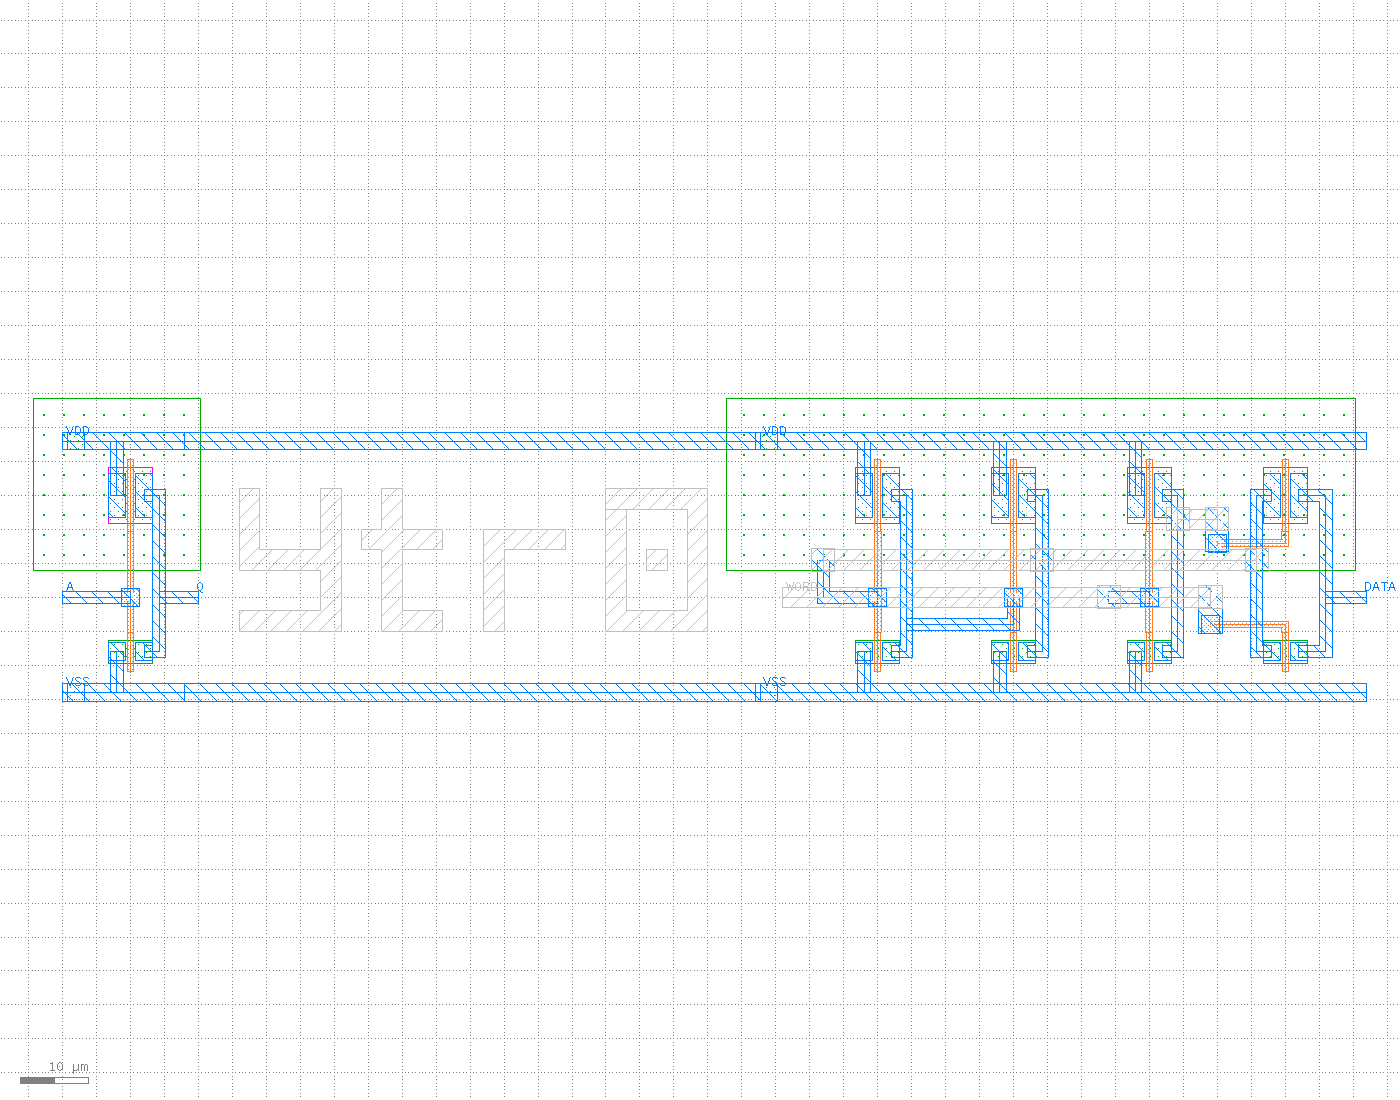
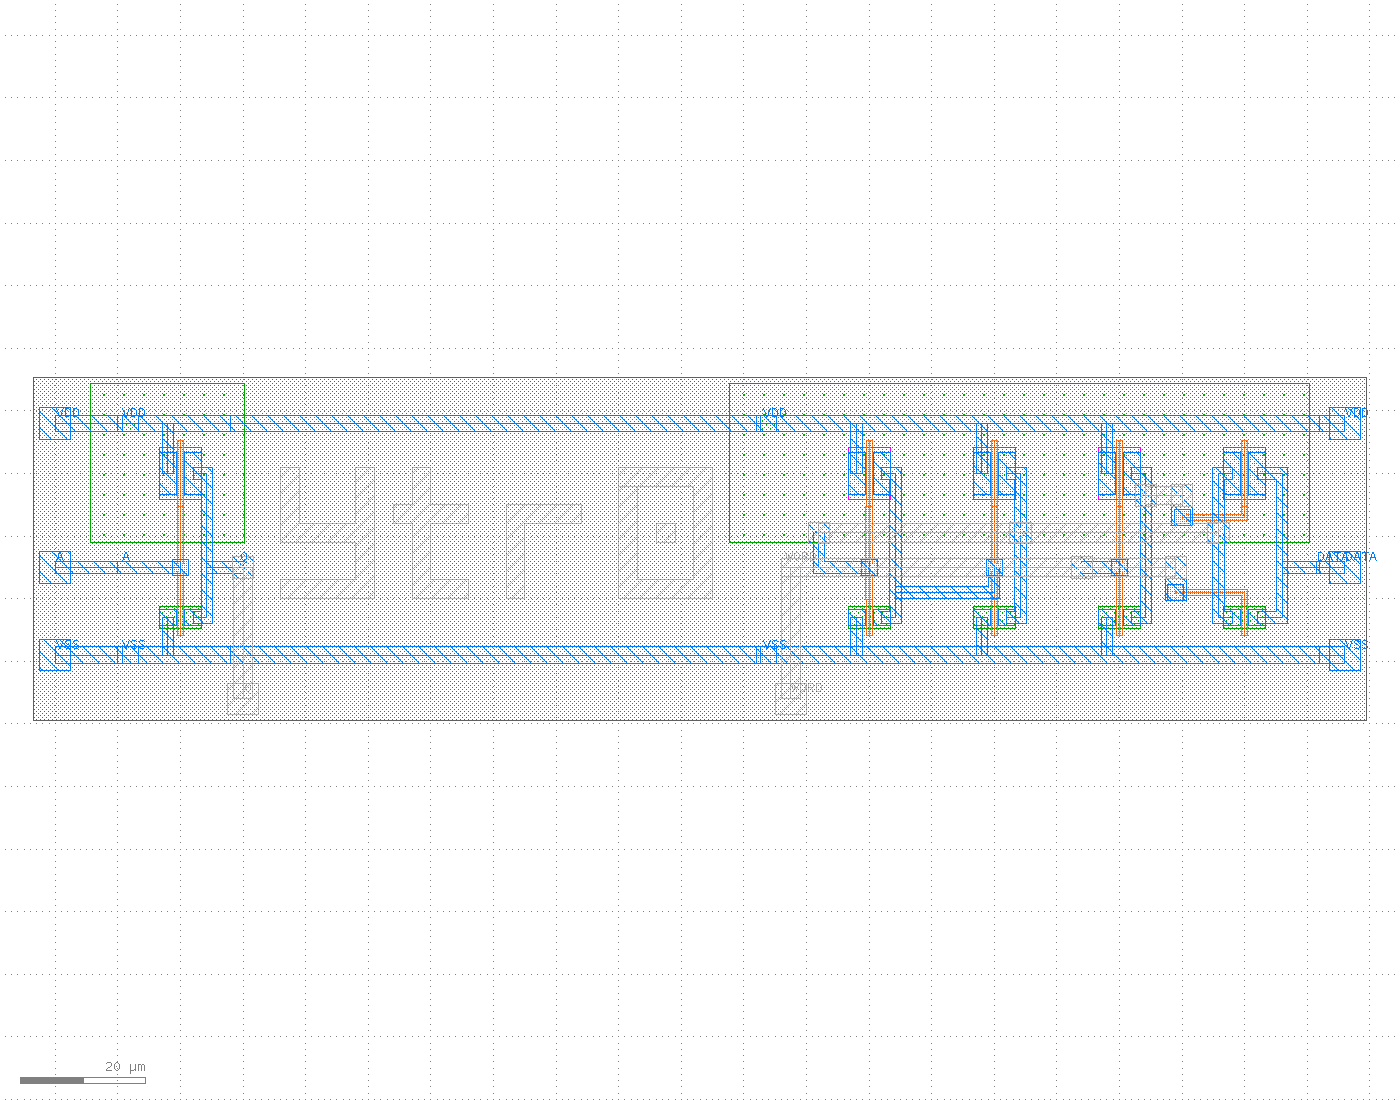
Bring all pins out to pads on the block boundary
- signals escape to the edge: A (left, M1), Q and WORD (bottom, M2), DATA (right, M1)
- 5um landing pads with labels; power rails now span the full width with pads
  on both ends so the integrator can daisy-chain VDD/VSS with other blocks
- prBoundary added
- all variants still DRC 0 / LVS match; PINLIST.md updated with pad coordinates

Changed region(s): [[0.0307, 0.34, 0.9829, 0.68], [0.0307, 0.9582, 0.0921, 0.9891]]

diff --git a/PINLIST.md b/PINLIST.md
@@ -15,16 +15,24 @@ OpenSUSI-TR10（TR-1um PDK v1.2609.0）向けのブロックです。
 
 ## ピン
 
-| ピン | 種類 | レイヤー | 説明 |
-|---|---|---|---|
-| `A` | 入力 | M1 | インバータの入力。0V / 5V のロジック |
-| `Q` | 出力 | M1 | インバータの出力。負荷 100fF で遅延 0.8ns |
-| `VDD` | 電源 | M1 | 5V |
-| `VSS` | 電源 | M1 | 0V |
-| `DATA` | 入出力 | M1 | SRAM のデータ（`full` のみ） |
-| `WORD` | 入力 | **M2** | SRAM のアクセス制御（`full` のみ） |
+信号は 5µm 角のパッドでブロックの外周に出しています。座標はトップセル `ytr0_top` のものです。
 
-`WORD` だけ M2 です。ほかは M1 です。
+`full` の場合:
+
+| ピン | 種類 | レイヤー | パッドの位置 | 出ている辺 | 説明 |
+|---|---|---|---|---|---|
+| `A` | 入力 | M1 | (-20, -15) | 左 | インバータの入力。0V / 5V のロジック |
+| `Q` | 出力 | **M2** | (10, -36) | 下 | インバータの出力。負荷 100fF で遅延 0.8ns |
+| `DATA` | 入出力 | M1 | (186, -15) | 右 | SRAM のデータ |
+| `WORD` | 入力 | **M2** | (97.5, -36) | 下 | SRAM のアクセス制御 |
+| `VDD` | 電源 | M1 | (-20, 8) と (186, 8) | 左右 | 5V。**左右どちらからでもつなげます** |
+| `VSS` | 電源 | M1 | (-20, -29) と (186, -29) | 左右 | 0V。同上 |
+
+`inverter_only` の場合は `A`(-20,-15)、`Q`(10,-36)、`VDD`/`VSS`(-20 と 88) です。
+
+- `Q` と `WORD` は **M2**、ほかは **M1** です
+- **電源は左右の端まで通してあります。** ほかのブロックと共有する場合は、このブロックを経由して数珠つなぎにできます
+- ブロックの範囲は prBoundary（235/0）で示しています
 
 ## 使い方
 
